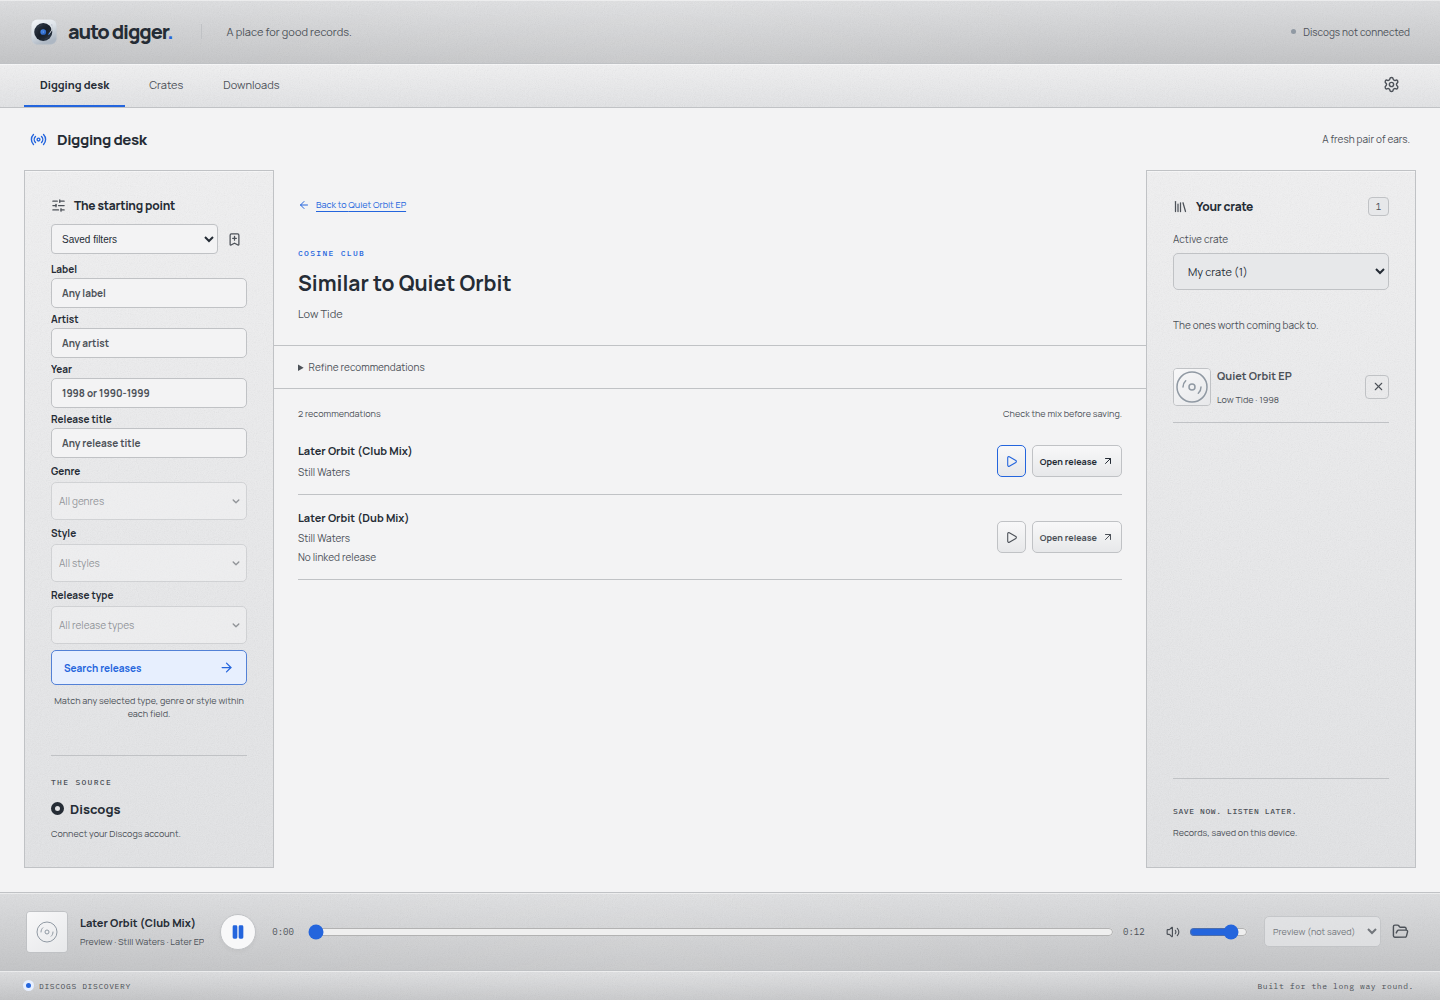
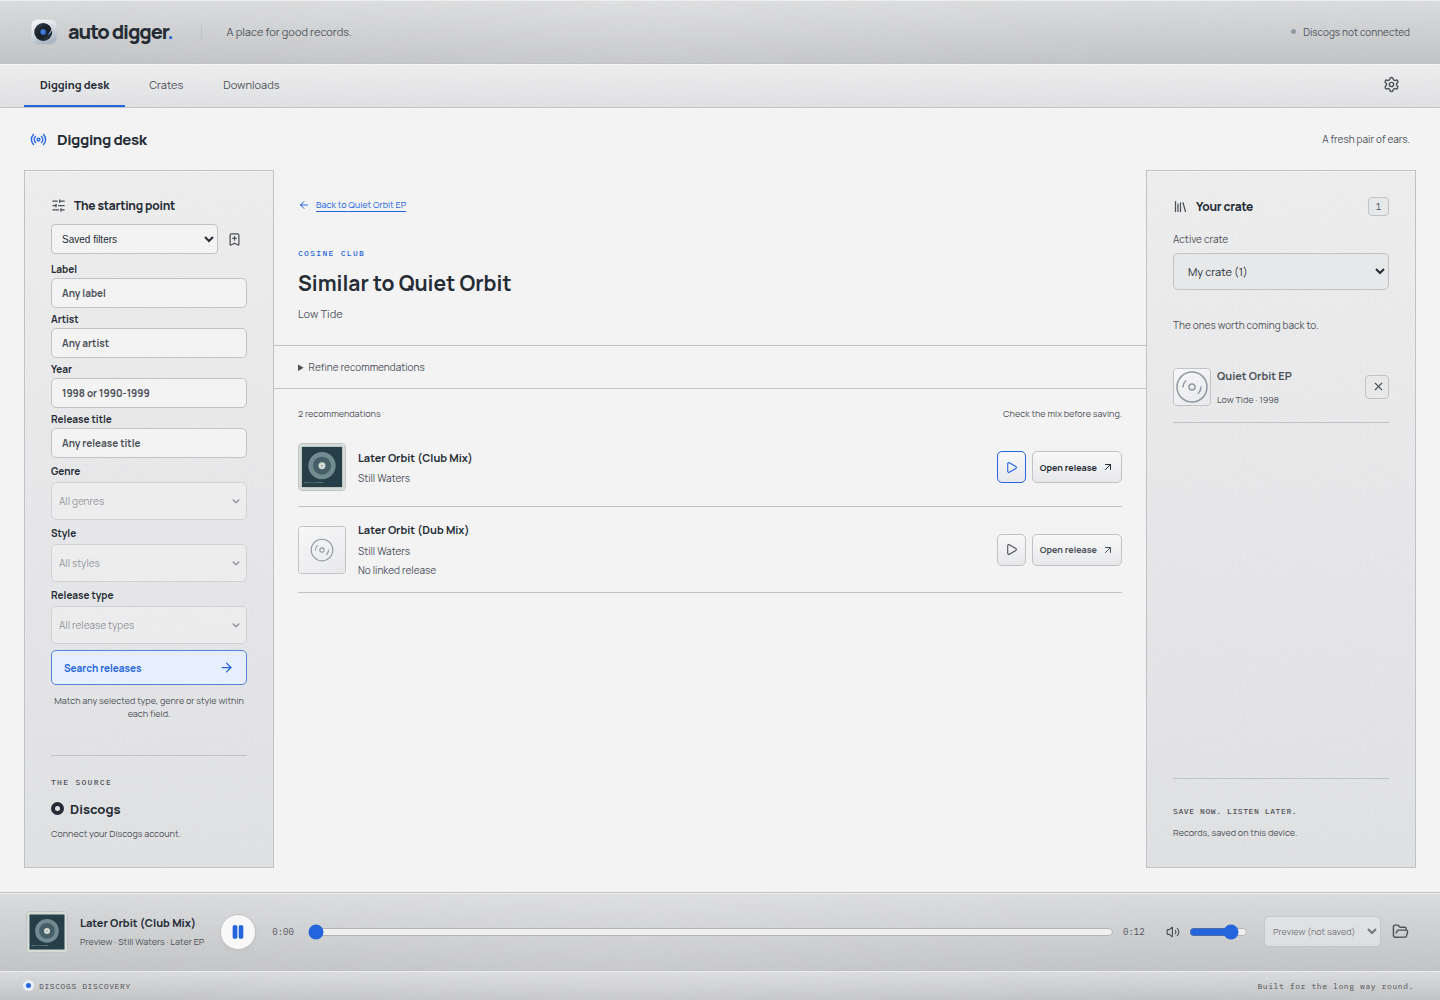
docs: show recommendation covers and the labelled source action

diff --git a/docs/verification/cosine-recommendations/README.md b/docs/verification/cosine-recommendations/README.md
@@ -5,7 +5,8 @@ Verified on Linux with the built Electron application. The feature branch starts
 ## Exercised journeys
 
 - Save a masked Cosine key in Settings; clear the input after saving, retain it encrypted across restart and forget it explicitly. The fixture uses synthetic OS encryption; actual desktop keyring access still depends on the user's desktop session.
-- Open a saved EP and choose Find similar on its YouTube source. See full mix titles, deduplicated uploads and explicit unavailable controls for a missing linked release.
+- Open a saved EP and choose the visibly labelled Find similar button beside its preview/download actions. See full mix titles, deduplicated uploads and explicit unavailable controls for a missing linked release.
+- Linked release covers load progressively, with one lookup per distinct pressing in sequence. Preview/open share pending metadata for the same recommendation. Failed lookups can retry, and dismissing the journey stops the remaining queue and ignores late cover metadata. The existing RecordArtwork component handles missing or broken images.
 - Refine years only when Refresh is chosen. Preview without creating a download, open the linked pressing, and use the normal Download action. The native test checks one audio fetch, the saved metadata, ID3 style genre and configured folder hierarchy.
 - Return from a linked EP to recommendations with refinement retained, then to the original EP with digging filters retained. Dismissing a request ignores late completion. Provider failure stays readable and allows returning to the EP.
 - Manually exercised the rendered desktop at 1440 by 1000 and 900 by 780, inspected screenshots and checked for horizontal overflow and visible alerts. Fixed the credential field's intrinsic width after inspecting its actual layout.
@@ -14,7 +15,9 @@ The screenshots use synthetic catalogue/API data and audio to keep the demo dete
 
 ## Screenshots
 
-![Find similar alongside preview and download](track-action.png)
+![Find similar text button beside preview and download](track-action-detail.png)
+
+![Find similar in the full digging desk](track-action.png)
 
 ![Recommendations with preview playing](recommendations.png)
 
@@ -23,3 +26,5 @@ The screenshots use synthetic catalogue/API data and audio to keep the demo dete
 ![Remembered Cosine key settings](settings.png)
 
 ![Compact recommendation layout at the minimum window size](narrow-window.png)
+
+![Find similar at the minimum window size](narrow-track-action.png)

diff --git a/docs/adr/0010-cosine-recommendations.md b/docs/adr/0010-cosine-recommendations.md
@@ -15,3 +15,5 @@ Only explicit Discogs release links are resolved in this slice. Load public meta
 An exact, unique full-title and artist match supplies the proposed track assignment. An uncertain match stays unassigned. The resolved release retains the recommendation's upload with an explicit optional assignment hint, including null for uncertainty. This avoids reapplying fuzzy upload-title matching and makes the existing source rows available for correction, preview and download. Hints do not replace Discogs metadata or source identity.
 
 Reuse the bounded temporary preview cache and normal audio library. Preview does not add to Downloads. Opening the linked EP and choosing Download saves those cached bytes using the current assignment, folder settings and MP3 style-tagging policy. Recommendations do not introduce another player or download implementation.
+
+Recommendation rows reuse RecordArtwork for release covers and its missing/broken-image fallback. Following the existing sequential useSources loading pattern, prefetch metadata for the first visible recommendation of each distinct linked pressing, one at a time, without delaying the list. The current-list cache shares in-flight and completed lookups with Preview/Open, drops failed entries for explicit retry, and ignores old completions after clearing. Covers introduce no extra API or renderer dependency. Find similar has a visible text label beside the audio controls.
